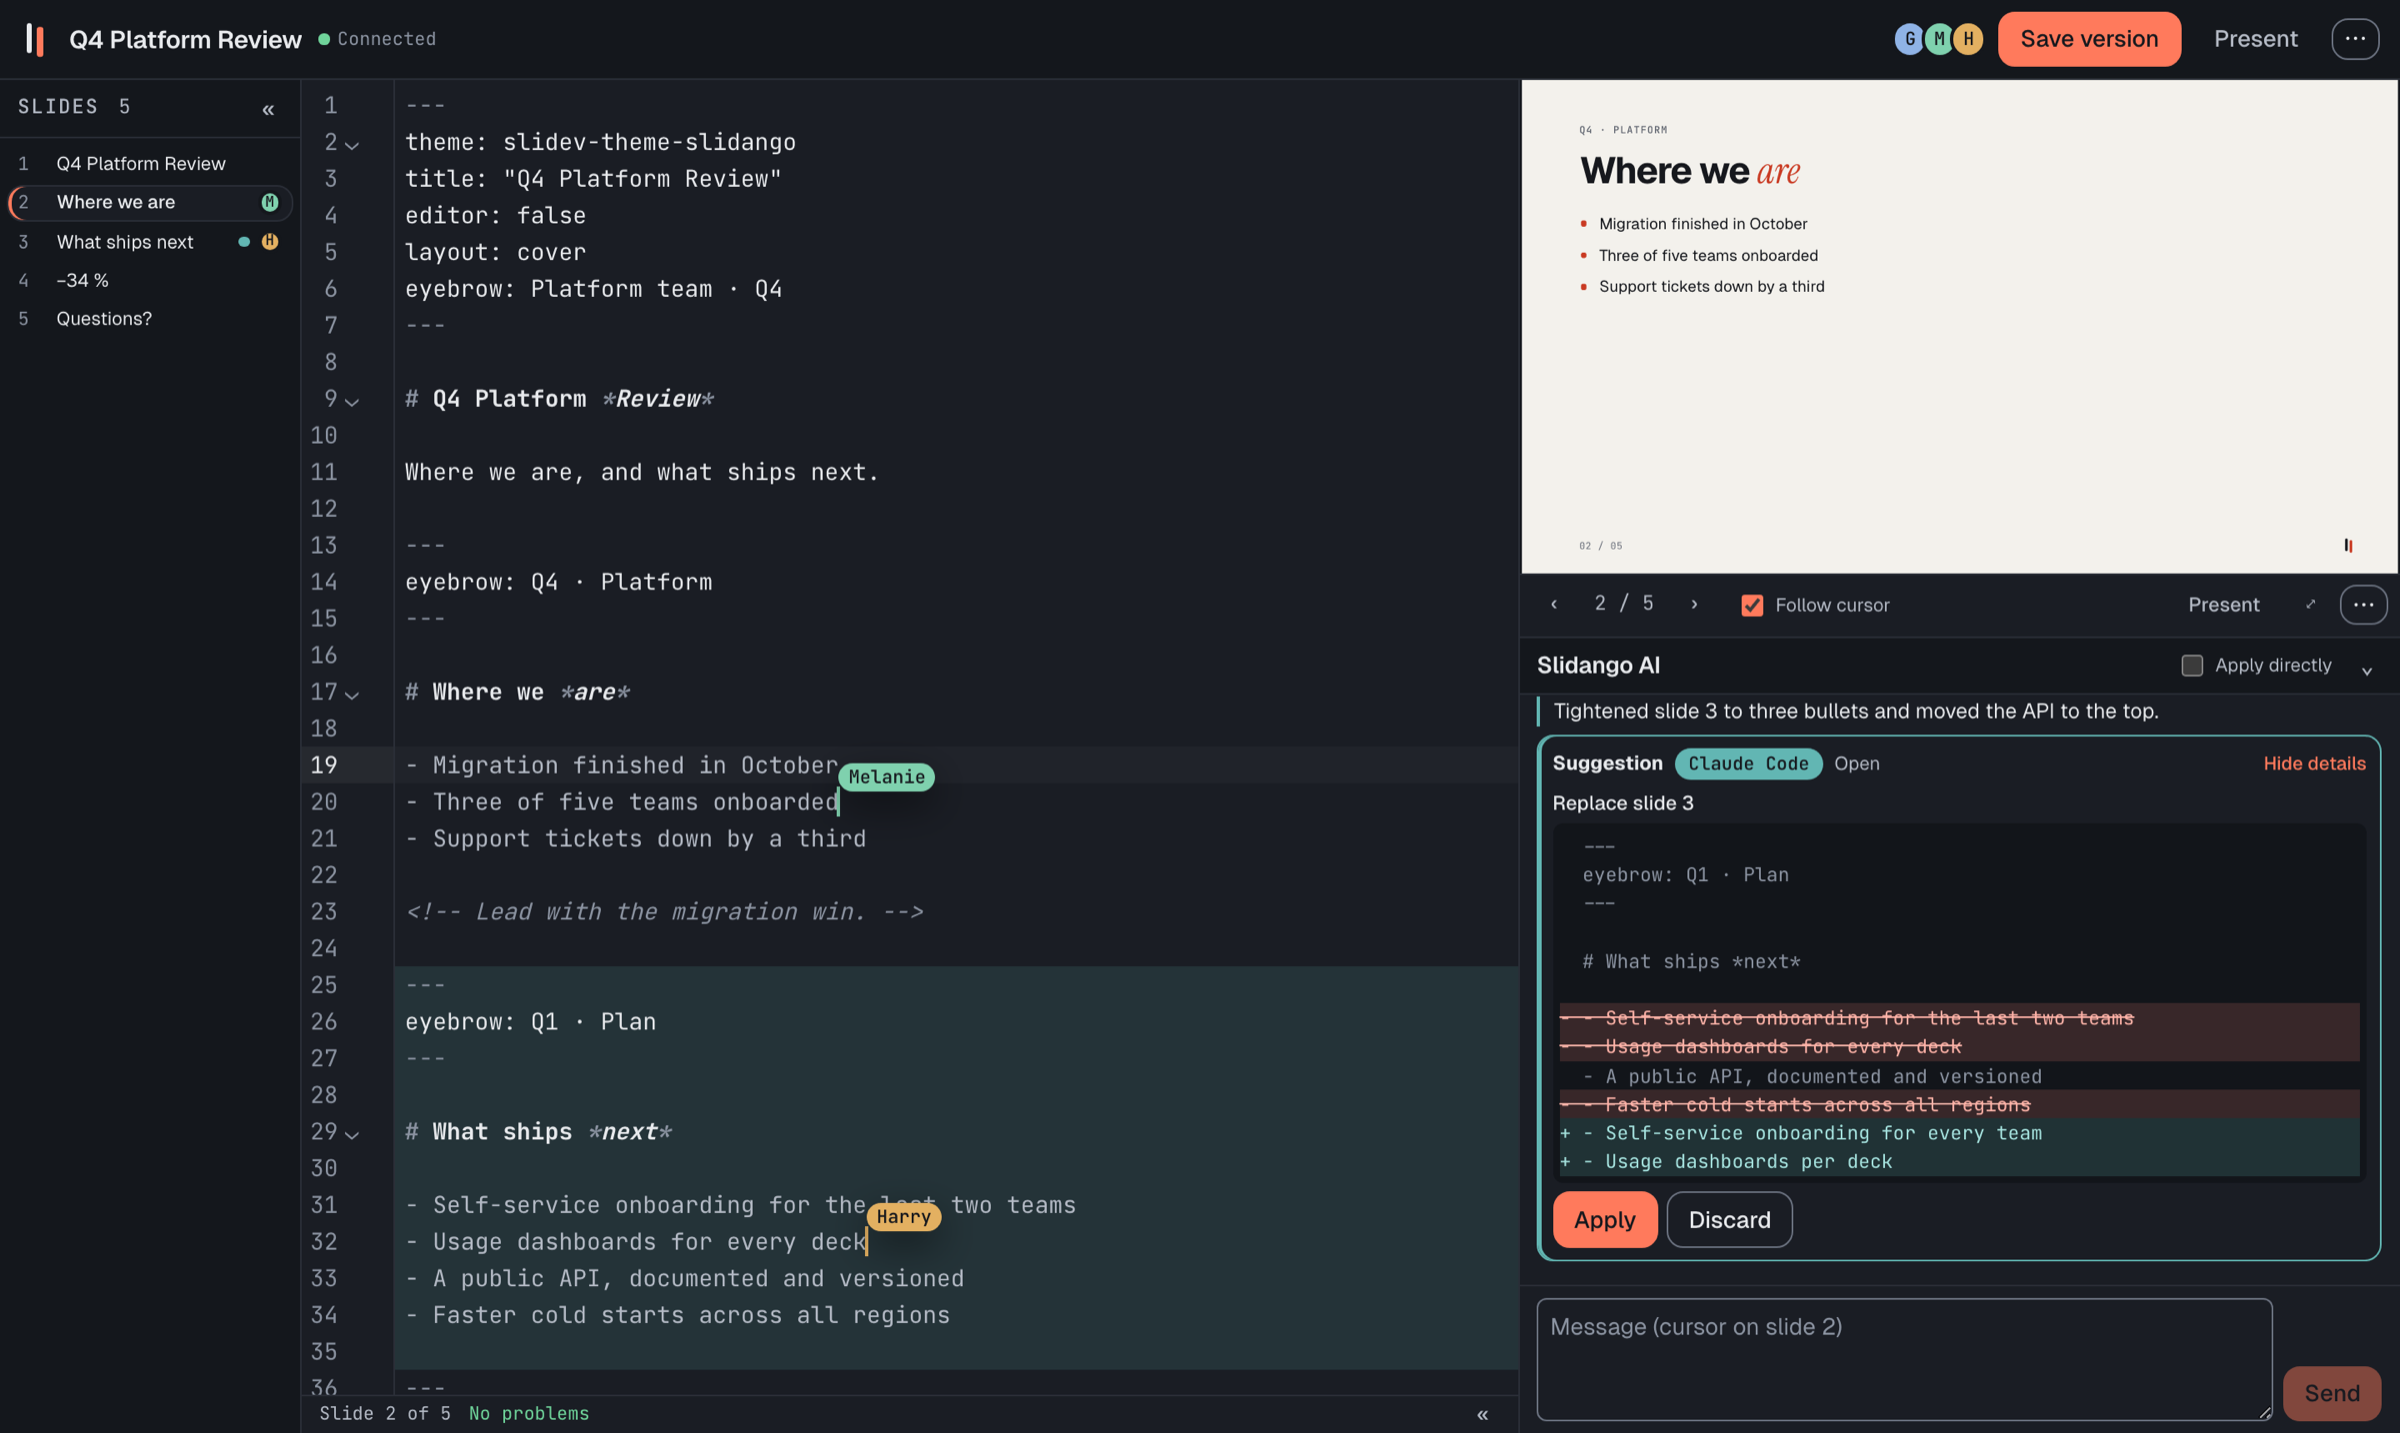
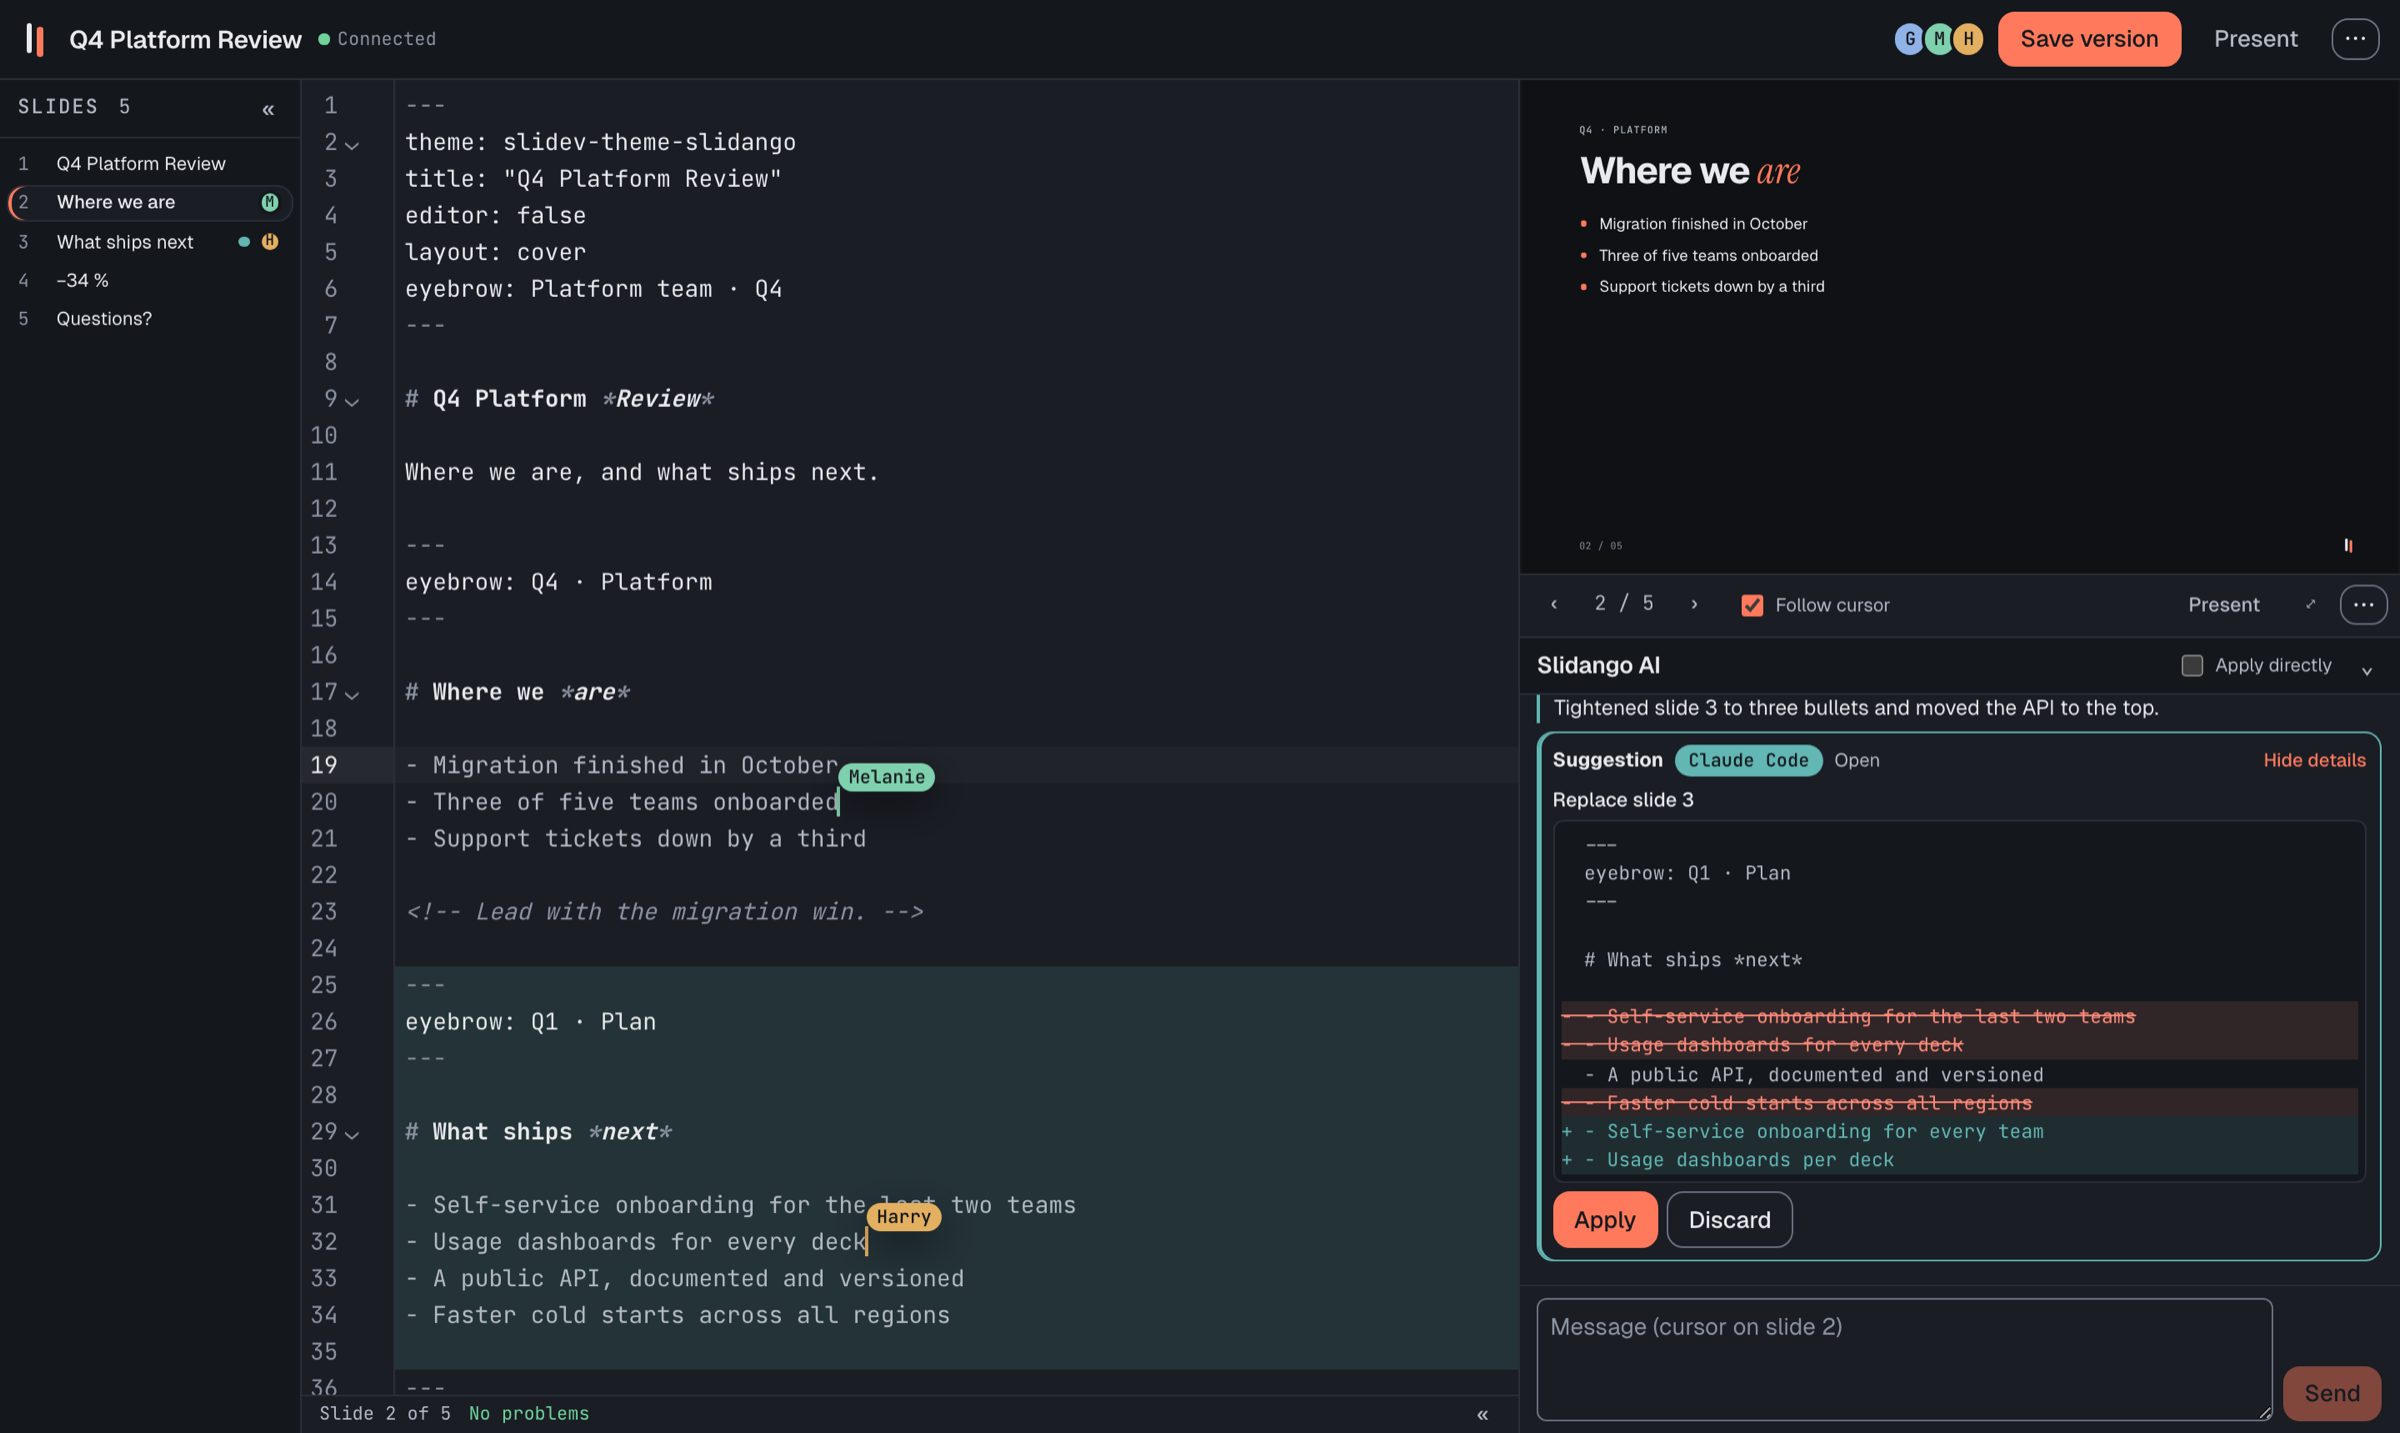
Preview follows the app theme, diffs follow it too
- The Slidango template defaults to colorSchema: auto. The preview tells
  Slidev the app theme (on load and on every switch), so decks look
  light or dark like the editor around them. A deck can still fix one
  variant with colorSchema: light or dark.
- Suggestion diffs use the theme's colours instead of a dark code box.
- Docs and README screenshots updated.

diff --git a/apps/web/src/components/PreviewPane.vue b/apps/web/src/components/PreviewPane.vue
@@ -2,6 +2,7 @@
 import { onBeforeUnmount, onMounted, ref, watch } from 'vue'
 import type { Preview } from '@slidango/shared'
 import { api } from '../api'
+import { theme } from '../composables/theme'
 import MenuButton from './MenuButton.vue'
 
 const props = defineProps<{ deckId: string; slide: number; total: number }>()
@@ -48,6 +49,19 @@ function post(message: Record<string, unknown>) {
   frame.value?.contentWindow?.postMessage({ target: 'slidev', ...message }, '*')
 }
 
+/**
+ * The preview follows the app theme: Slidev switches decks without a fixed `colorSchema`
+ * (the Slidango template defaults to auto); decks that pin light or dark keep their variant.
+ */
+function applyTheme() {
+  post({ type: 'color-schema', color: theme.value })
+  post({ type: 'css-vars', vars: { '--slidev-slide-container-background': stage() } })
+}
+watch(theme, () => {
+  // The CSS variables of the new theme apply on the next frame.
+  if (styled) requestAnimationFrame(applyTheme)
+})
+
 /** Jumps without reloading (Slidev's embedded control). */
 function goTo(no: number) {
   if (no === current.value) return
@@ -67,7 +81,7 @@ function onMessage(event: MessageEvent) {
   // The first nav report means Slidev's embedded control listens; style once per page load.
   if (!styled) {
     styled = true
-    post({ type: 'css-vars', vars: { '--slidev-slide-container-background': stage() } })
+    applyTheme()
   }
   current.value = state.no
   nav.value = { hasNext: state.hasNext, hasPrev: state.hasPrev }

diff --git a/apps/web/src/components/ProposalCard.vue b/apps/web/src/components/ProposalCard.vue
@@ -78,10 +78,10 @@ header { display: flex; gap: 0.5rem; align-items: baseline; }
 .link { margin-left: auto; border: none; background: none !important; padding: 0; color: var(--accent); font-size: 0.8rem; }
 .ops { list-style: none; margin: 0.4rem 0; padding: 0; display: grid; gap: 0.4rem; }
 .label { font-weight: 500; }
-.diff { margin: 0.25rem 0 0; font-size: 11.5px; line-height: 1.5; max-height: 16rem; overflow: auto; background: var(--code-bg); color: var(--code-ink); border-radius: var(--radius-sm); padding: 0.3rem; white-space: pre-wrap; }
-.diff .add { background: color-mix(in srgb, #62b6b3 18%, transparent); color: #a6e3df; display: block; }
-.diff .del { background: color-mix(in srgb, #ff8a7a 16%, transparent); color: #ffb3a8; text-decoration: line-through; display: block; }
-.diff .same { color: var(--code-muted); display: block; }
+.diff { margin: 0.25rem 0 0; font-size: 11.5px; line-height: 1.5; max-height: 16rem; overflow: auto; background: var(--surface-100); color: var(--ink); border: 1px solid var(--line); border-radius: var(--radius-sm); padding: 0.3rem; white-space: pre-wrap; }
+.diff .add { background: var(--ai-soft); color: var(--ai); display: block; }
+.diff .del { background: var(--danger-soft); color: var(--danger); text-decoration: line-through; display: block; }
+.diff .same { color: var(--ink-muted); display: block; }
 .actions { display: flex; gap: 0.4rem; }
 .error { color: var(--danger); margin: 0.3rem 0; }
 </style>

diff --git a/docs/template.md b/docs/template.md
@@ -21,7 +21,7 @@ fonts/, public/  Fonts, logos, images
   "keywords": ["slidev-theme", "slidev"],
   "dependencies": { "@slidev/cli": "53.0.0" },
   "slidev": {
-    "colorSchema": "light",
+    "colorSchema": "auto",
     "defaults": { "aspectRatio": "16/9" }
   }
 }
@@ -49,7 +49,7 @@ Sales, Austria
 
 ## Light and dark
 
-`"colorSchema": "light"` in `package.json` makes light the default. If your theme also has a dark variant (styles under `html.dark`), a deck switches to it with `colorSchema: dark` in its headmatter. The preview, presenting and exports then show the dark variant, regardless of whether the person editing uses Slidango's light or dark theme. The Slidango template works this way.
+If your theme has a dark variant (styles under `html.dark`), set `"colorSchema": "auto"` in `package.json`: Slidango's preview then follows the app theme of the person editing, and presenting follows the presenter's setting. A deck fixes one variant for everyone with `colorSchema: light` or `colorSchema: dark` in its headmatter. Themes without a dark variant should set `"colorSchema": "light"`. The Slidango template uses `auto`.
 
 ## What happens after the upload
 

diff --git a/theme/README.md b/theme/README.md
@@ -1,6 +1,6 @@
 # slidev-theme-slidango
 
-The Slidango look for [Slidev](https://sli.dev): warm paper, bold Geist headlines with one Instrument Serif punchline in tango, mono labels, a dot grid on cover, section and end slides. Fonts are bundled (OFL). Light by default; `colorSchema: dark` in a deck's settings switches that deck to the dark variant.
+The Slidango look for [Slidev](https://sli.dev): warm paper, bold Geist headlines with one Instrument Serif punchline in tango, mono labels, a dot grid on cover, section and end slides. Fonts are bundled (OFL). Light and dark: a deck follows the viewer's theme by default; `colorSchema: light` or `colorSchema: dark` in its settings fixes it to one variant.
 
 Layouts: `cover`, `default`, `section`, `two-cols`, `center`, `statement`, `fact`, `quote`, `end`. Writing rules and examples: [`guide.md`](guide.md). Every layout in one deck: [`starter.md`](starter.md).
 

diff --git a/theme/guide.md b/theme/guide.md
@@ -10,7 +10,7 @@ Warm paper, bold Geist headlines with one italic punchline, a single tango accen
 - **Speaker notes:** put them in an HTML comment at the end of the slide: `<!-- … -->`.
 - **Code:** fenced code blocks render dark on the paper slide. Keep them short.
 - No emojis, no exclamation marks, no superlatives.
-- **Dark slides:** add `colorSchema: dark` to the deck settings (slide 1). The whole deck turns dark, in the preview, when presenting and in exports. Default is light.
+- **Light and dark:** by default a deck follows the viewer: in Slidango's preview it matches the app theme, when presenting the presenter's setting. To fix a deck to one variant for everyone (preview, presenting, exports), set `colorSchema: light` or `colorSchema: dark` in the deck settings (slide 1).
 
 ```md
 ---
